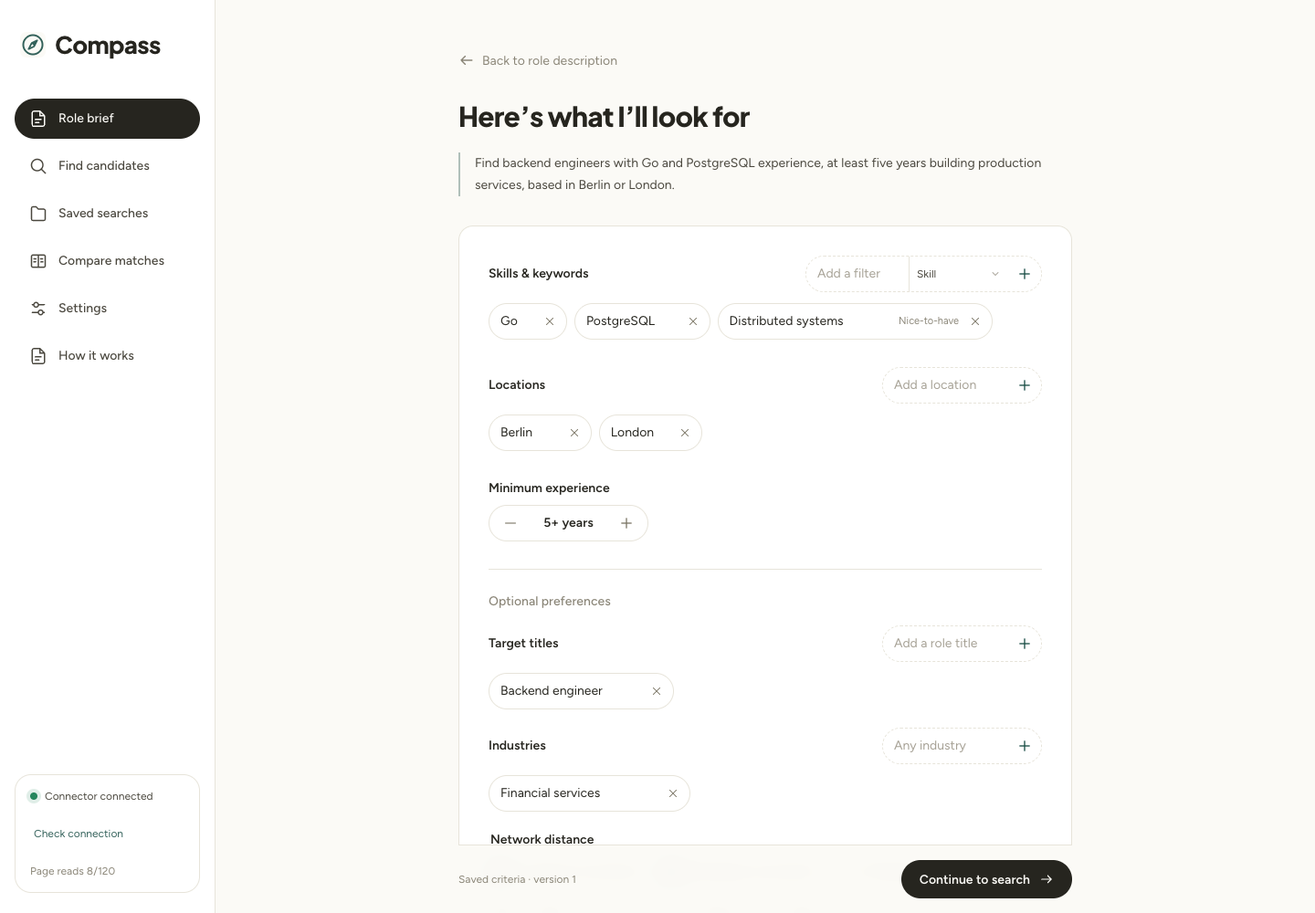
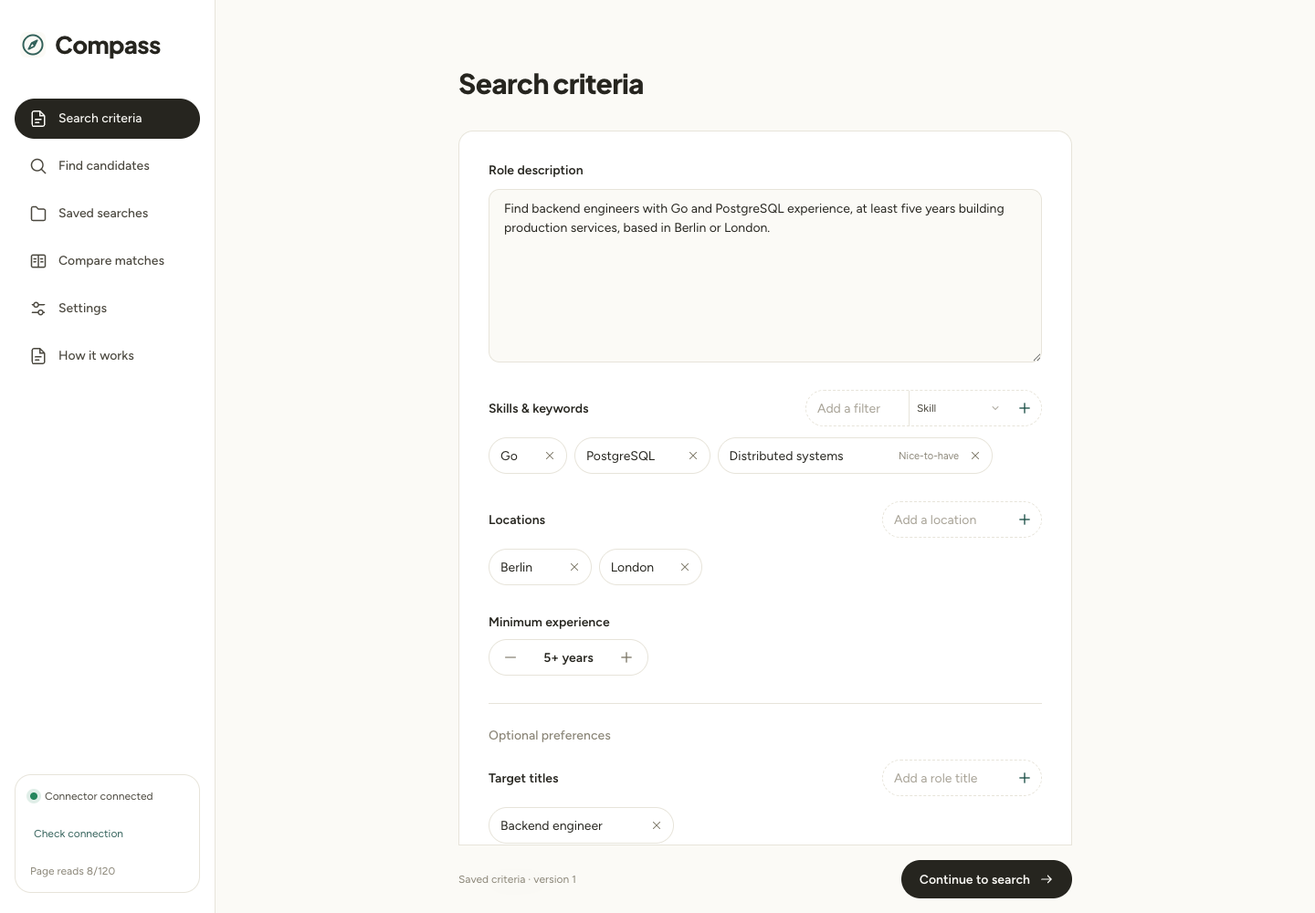
Simplify search criteria setup and refresh documentation screenshots

diff --git a/frontend/src/learn/basics1.tsx b/frontend/src/learn/basics1.tsx
@@ -7,7 +7,7 @@ import { FICTION } from './content';
 
 const STAGES = [
   {
-    label: 'Define the role', where: 'Role brief',
+    label: 'Define the role', where: 'Search criteria',
     detail: 'Start with a description, then enter the criteria yourself. Add skills, credentials and nice-to-haves, choose one or more locations, and set minimum experience in years. Target titles, industries, network and company preferences stay in the optional section.',
     outcome: 'Continue to search saves the brief. Every search uses those saved criteria.',
   },
@@ -39,10 +39,10 @@ export function Ch1() {
       chapterId="what-compass-does"
       kicker="The basics · 1 of 9"
       title="What Compass does"
-      intro="Start Compass with ./compass from the repository folder. The app and first-time LinkedIn sign-in window open for you. Finish signing in, then create your role brief and choose Run search. Compass is your local candidate research workspace. Describe a role, search LinkedIn, automatically download profiles, and compare the evidence against your criteria. You choose what matters and inspect the sources behind the results."
+      intro="Start Compass with ./compass from the repository folder. The app and first-time LinkedIn sign-in window open for you. Finish signing in, then create your search criteria and choose Run search. Compass is your local candidate research workspace. Describe a role, search LinkedIn, automatically download profiles, and compare the evidence against your criteria. You choose what matters and inspect the sources behind the results."
     >
       <section>
-        <h2 className="font-display text-lg font-bold text-ink">From role brief to your decision</h2>
+        <h2 className="font-display text-lg font-bold text-ink">From search criteria to your decision</h2>
         <p className="mt-2 text-sm leading-relaxed text-faint">Follow the work from top to bottom. Each stage explains what you do, what Compass does, and what you can review next.</p>
         <div className="mt-5">
           <Figure caption="New searches and profile requests use the separate LinkedIn connector. Saved evidence, local scoring and comparison remain available while the connector is offline.">
@@ -106,7 +106,7 @@ function ChipInput({ values, onChange, placeholder }: { values: string[]; onChan
 }
 
 export function Ch2() {
-  const [step, setStep] = useState<'describe' | 'criteria'>('describe');
+  const [description, setDescription] = useState(`${FICTION.role.charAt(0).toUpperCase() + FICTION.role.slice(1)}, ideally with payments experience. Berlin or remote in Europe.`);
   const [required, setRequired] = useState<string[]>(['Go', 'PostgreSQL']);
   const [optional, setOptional] = useState<string[]>(['Kubernetes']);
   const [include, setInclude] = useState<string[]>(['payments']);
@@ -125,31 +125,18 @@ export function Ch2() {
       chapterId="set-up-role"
       kicker="The basics · 2 of 9"
       title="Set up your role"
-      intro="Start by describing the role in plain words, then select “Set up search” to enter the criteria screen. You complete the structured criteria yourself — Compass never reads your description and fills the form in for you. Save the brief before searching: searches always use the latest saved version."
+      intro="The Search criteria page keeps your description and search criteria on one page. Enter the description, add the criteria you want to check, then select “Continue to search”. The description does not automatically fill in the criteria. Searches use your latest saved brief."
     >
-      <Figure caption="The description screen hands off to the criteria form — you confirm or correct every field. This example starts with manually entered criteria. Skills and nice-to-haves appear together; locations support multiple entries. Target titles and industries are in Optional preferences. Existing aliases are retained in saved data but are not edited on this screen. Try adding “payments” to Exclusions to see the conflict check.">
-        {step === 'describe' ? (
-          <div className="fade-enter">
-            <p className="text-xs font-semibold uppercase tracking-wide text-faint">Step 1 · Describe the role</p>
-            <div className="mt-3 rounded-xl border border-line bg-canvas p-4">
-              <p className="text-sm leading-relaxed text-body">“{FICTION.role.charAt(0).toUpperCase() + FICTION.role.slice(1)}, ideally with payments experience. Berlin or remote in Europe.”</p>
-              <p className="mt-2 text-xs text-faint">A description is a starting note — not instructions Compass acts on by itself.</p>
-            </div>
-            <div className="mt-4 flex justify-end">
-              <button
-                onClick={() => setStep('criteria')}
-                className="inline-flex items-center gap-2 rounded-full bg-ink px-5 py-2.5 text-sm font-semibold text-canvas hover:bg-accent-strong"
-              >
-                Set up search
-              </button>
-            </div>
-          </div>
-        ) : (
-          <div className="fade-enter space-y-5">
+      <Figure caption="Edit the description and criteria together, then save once. This example starts with manually entered criteria. Skills and nice-to-haves appear together; locations support multiple entries. Target titles and industries are in Optional preferences. Existing aliases are retained in saved data but are not edited on this screen. Try adding “payments” to Exclusions to see the conflict check.">
+        <div className="fade-enter space-y-5">
             <div className="flex items-center justify-between">
-              <p className="text-xs font-semibold uppercase tracking-wide text-faint">Step 2 · You complete the criteria</p>
+              <p className="text-sm font-semibold text-ink">Search criteria</p>
               <FictionalTag />
             </div>
+            <label className="block text-sm font-semibold text-ink">
+              Role description
+              <textarea className="mt-2 w-full rounded-xl border border-line bg-canvas p-3 font-normal" rows={8} value={description} onChange={event => { setDescription(event.target.value); setSaved(false); }} />
+            </label>
             <div>
               <p className="text-sm font-semibold text-ink">Skills & keywords</p>
               <div className="mt-2"><ChipInput values={required} onChange={(v) => { setRequired(v); setSaved(false); }} placeholder="Add required skill" /></div>
@@ -194,14 +181,13 @@ export function Ch2() {
               <p className="text-xs text-faint">Credentials are added in Skills & keywords using the filter type.</p>
               <button
                 onClick={() => setSaved(true)}
-                disabled={conflicts.length > 0}
+                disabled={conflicts.length > 0 || !description.trim()}
                 className="inline-flex shrink-0 items-center gap-2 rounded-full bg-ink px-5 py-2.5 text-sm font-semibold text-canvas hover:bg-accent-strong disabled:cursor-not-allowed disabled:opacity-40"
               >
                 Continue to search
               </button>
             </div>
           </div>
-        )}
       </Figure>
 
       <Callout tone="warn">

diff --git a/frontend/src/pages/BriefPage.tsx b/frontend/src/pages/BriefPage.tsx
@@ -109,7 +109,6 @@ export function BriefPage({
   const [negative, setNegative] = useState(initial.negative_keywords.join('\n'))
   const tone = initial.message_tone
   const [dirty, setDirty] = useState(false)
-  const [step, setStep] = useState<'describe' | 'review'>(current ? 'review' : 'describe')
   const positiveSet = new Set(parseKeywords(positive).map((term) => term.normalize('NFKC').toLowerCase()))
   const conflicts = parseKeywords(negative).filter((term) => positiveSet.has(term.normalize('NFKC').toLowerCase()))
 
@@ -154,40 +153,27 @@ export function BriefPage({
   const experienceLabel = requiredExperienceMonths === null ? 'Any'
     : `${Number((requiredExperienceMonths / 12).toFixed(2))}+ years`
 
-  if (step === 'describe') return (
-    <section className="compass-start" aria-labelledby="brief-title">
-      <p className="compass-kicker">Candidate Compass</p>
-      <h1 id="brief-title">Who are you looking for?</h1>
-      <p className="compass-start-copy">Start with the role you have in mind. You’ll review everything before searching.</p>
-      <form className="prompt-composer" onSubmit={event => { event.preventDefault(); if (description.trim()) { setStep('review'); requestAnimationFrame(() => document.getElementById('brief-title')?.focus()) } }}>
-        <label className="sr-only" htmlFor="job-description">Job description</label>
-        <textarea id="job-description" placeholder="e.g. A backend engineer with payments experience, Go and PostgreSQL, based in Berlin…" required rows={5} value={description} onChange={event => { setDescription(event.target.value); markDirty() }} />
-        <div className="prompt-composer-footer"><span>Nothing searched yet — confirm your criteria first.</span><button className="primary-action" disabled={!description.trim()} type="submit">Set up search <CompassIcon name="arrow" size={16} /></button></div>
-      </form>
-      <p className="prompt-guidance">A role title, key skills, and location are a good place to start.</p>
-      {current ? <button type="button" className="compass-back" onClick={() => setStep('review')}>Return to your criteria <CompassIcon name="arrow" size={16} /></button> : null}
-    </section>
-  )
-
   return (
     <section aria-labelledby="brief-title" className="compass-setup">
-      <button className="compass-back" type="button" onClick={() => setStep('describe')}><CompassIcon name="back" size={18} /> Back to role description</button>
       <header className="compass-setup-heading">
-        <h1 id="brief-title" tabIndex={-1}>Here’s what I’ll look for</h1>
-        <blockquote>{description}</blockquote>
+        <h1 id="brief-title" tabIndex={-1}>Search criteria</h1>
       </header>
       {settingsError ? <p className="form-error" role="alert">{settingsError}</p> : null}
       {mutation.isError ? <div className="form-error" ref={alertRef} role="alert" tabIndex={-1}><strong>Brief was not saved.</strong><span>{mutation.error.message}</span></div> : null}
       {conflicts.length > 0 ? <div className="form-error" role="alert"><strong>Some keywords appear in both lists.</strong><span>Remove {conflicts.map(term => `“${term}”`).join(', ')} from either Positive keywords or Exclusions before saving.</span></div> : null}
       <form className="compass-criteria-form" onChange={markDirty} onSubmit={event => {
         event.preventDefault()
-        if (conflicts.length) return
+        if (conflicts.length || !description.trim()) return
         mutation.mutate({ session_id: session.id, job_description: description, required_skills: required, optional_skills: optional,
           required_experience_months: requiredExperienceMonths, target_titles: titles, location, industries, required_credentials: credentials,
           positive_keywords: parseKeywords(positive), negative_keywords: parseKeywords(negative), message_tone: tone })
       }}>
         <div className="criteria-sheet">
-          {!current ? <p className="criteria-hint">Add the criteria from your description that you want to check against profiles.</p> : null}
+          <label className="field" data-field-prefix="job_description">
+            <span>Role description</span>
+            <textarea id="job-description" required rows={8} placeholder="Describe the role you’re hiring for…" value={description} onChange={event => { setDescription(event.target.value); markDirty() }} />
+            {fieldErrors.job_description?.map(error => <span className="field-error" key={error} role="alert">{error}</span>)}
+          </label>
           <KeyFilters skills={required} credentials={credentials} optionalSkills={optional} optionalSkillErrors={fieldErrors.optional_skills} onOptionalSkillsChange={editTerms(setOptional)} skillErrors={fieldErrors.required_skills} credentialErrors={fieldErrors.required_credentials} onSkillsChange={editTerms(setRequired)} onCredentialsChange={editTerms(setCredentials)} />
           <TermEditor errors={fieldErrors.location} field="location" label="Locations" placeholder="Add a location" values={splitLocations(location).map(term => ({ term, aliases: [] }))} onChange={values => { setLocation(values.map(value => value.term).join('; ')); markDirty() }} />
           <div data-field-prefix="required_experience_months">
@@ -210,8 +196,8 @@ export function BriefPage({
           </section>
         </div>
         <div className="criteria-footer">
-          <span aria-live="polite">{mutation.isSuccess && !dirty ? `Version ${mutation.data.version} saved. No search was started.` : dirty ? 'Unsaved changes' : current ? `Saved criteria · version ${current.version}` : 'Next: confirm your LinkedIn search'}</span>
-          <button className="primary-action" disabled={mutation.isPending || conflicts.length > 0} type="submit">{mutation.isPending ? 'Saving…' : onSaved ? 'Continue to search' : current ? 'Save new version' : 'Save brief'}<CompassIcon name="arrow" size={16} /></button>
+          <span aria-live="polite">{mutation.isSuccess && !dirty ? `Version ${mutation.data.version} saved. No search was started.` : dirty ? 'Unsaved changes' : current ? `Saved criteria · version ${current.version}` : 'Save your criteria to continue'}</span>
+          <button className="primary-action" disabled={mutation.isPending || conflicts.length > 0 || !description.trim()} type="submit">{mutation.isPending ? 'Saving…' : onSaved ? 'Continue to search' : current ? 'Save new version' : 'Save brief'}<CompassIcon name="arrow" size={16} /></button>
         </div>
       </form>
     </section>

diff --git a/frontend/src/pages/SearchPage.tsx b/frontend/src/pages/SearchPage.tsx
@@ -208,10 +208,10 @@ export function SearchPage({
       </div>)}
       {stopDiscovery.isSuccess ? <p className="field-help">Discovery stopped. Profiles already queued will finish downloading.</p> : null}
       {stopDiscovery.isError ? <p role="alert" className="form-error">{stopDiscovery.error.message}</p> : null}
-      {hasConflicts ? <div className="form-error brief-conflict" role="alert"><strong>Your role brief has conflicting keywords.</strong><span>A keyword is both included and excluded. Correct the brief before searching.</span>{onEditBrief ? <button className="quiet-action" onClick={onEditBrief} type="button">Edit role brief</button> : null}</div> : null}
+      {hasConflicts ? <div className="form-error brief-conflict" role="alert"><strong>Your search criteria have conflicting keywords.</strong><span>A keyword is both included and excluded. Correct the criteria before searching.</span>{onEditBrief ? <button className="quiet-action" onClick={onEditBrief} type="button">Edit search criteria</button> : null}</div> : null}
 
       {!brief ? (
-        <div className="empty-card" role="status"><h2>Save a role brief first.</h2><p>Set up your search criteria on the Role brief page.</p>{onEditBrief ? <button className="quiet-action" type="button" onClick={onEditBrief}>Set up role brief</button> : null}</div>
+        <div className="empty-card" role="status"><h2>Save your search criteria first.</h2><p>Set up your search criteria on the Search criteria page.</p>{onEditBrief ? <button className="quiet-action" type="button" onClick={onEditBrief}>Set up search criteria</button> : null}</div>
       ) : !keywords ? <p className="field-help">Add a role title or key filter to your brief before searching.</p> : null}
       {search.isError ? <div className="form-error" ref={errorRef} role="alert" tabIndex={-1}><strong>Search was not queued.</strong><span>{search.error.message}</span></div> : null}
       {!retrievalReady ? <p className="field-help download-help">Downloads are paused or offline. Check the connector and resume paused downloads above. Saved candidates remain available.</p> : null}

diff --git a/frontend/src/App.tsx b/frontend/src/App.tsx
@@ -140,7 +140,7 @@ function App() {
   useEffect(() => {
     document.title =
       view === 'settings' ? 'Settings · Compass' : view === 'learn' ? 'How it works · Compass' : view === 'brief'
-        ? 'Role brief · Compass'
+        ? 'Search criteria · Compass'
         : view === 'candidate'
           ? 'Candidate detail · Compass'
           : view === 'ranked'
@@ -187,7 +187,7 @@ function App() {
           onClick={() => navigate({ view: 'brief', candidateId: null })}
           type="button"
         >
-          <span className="nav-icon" aria-hidden="true"><CompassIcon name="brief" /></span><span className="nav-label">Role brief</span>
+          <span className="nav-icon" aria-hidden="true"><CompassIcon name="brief" /></span><span className="nav-label">Search criteria</span>
         </button>
         <button
           aria-current={contentView === 'search' ? 'page' : undefined}
@@ -273,7 +273,7 @@ function App() {
           </section>
         ) : session.data ? (
           contentView === 'brief' ? (
-            brief.isPending ? <p role="status">Loading your role brief…</p> : brief.isError ? <div className="form-error" role="alert">Your role brief could not be loaded. <button className="quiet-action" onClick={() => void brief.refetch()} type="button">Try again</button></div> : <BriefPage
+            brief.isPending ? <p role="status">Loading your search criteria…</p> : brief.isError ? <div className="form-error" role="alert">Your search criteria could not be loaded. <button className="quiet-action" onClick={() => void brief.refetch()} type="button">Try again</button></div> : <BriefPage
               retrievalReady={retrievalReady}
               queueRevision={queue.revision}
               current={brief.data}

diff --git a/frontend/src/components/LauncherStatus.tsx b/frontend/src/components/LauncherStatus.tsx
@@ -20,7 +20,7 @@ export function LauncherStatus({ phase }: { phase: string }) {
   return <div className="connection-strip" role="status">
     <div>
       <strong>{failed ? 'LinkedIn needs your attention' : phase === 'signing_in' ? 'Sign in to LinkedIn' : 'Connecting to LinkedIn…'}</strong>
-      <span>{failed ? 'Sign-in did not finish or the connection stopped. Try again; startup details are in .compass/connector.log.' : phase === 'signing_in' ? 'Finish signing in in the LinkedIn window that opens. You can set up your role brief while you wait.' : 'Compass is starting the connection for you.'}</span>
+      <span>{failed ? 'Sign-in did not finish or the connection stopped. Try again; startup details are in .compass/connector.log.' : phase === 'signing_in' ? 'Finish signing in in the LinkedIn window that opens. You can set up your search criteria while you wait.' : 'Compass is starting the connection for you.'}</span>
       {login.isError && <span role="alert">{login.error.message}</span>}
     </div>
     {failed && <button type="button" className="quiet-action" disabled={login.isPending} onClick={() => login.mutate()}>{login.isPending ? 'Opening…' : 'Sign in to LinkedIn'}</button>}

diff --git a/frontend/src/components/ResultHeader.tsx b/frontend/src/components/ResultHeader.tsx
@@ -18,7 +18,7 @@ export function ResultHeader({ brief, titleId, fallback, subtitle, onEdit, compa
     ...(brief.required_experience_months == null ? [] : [`${Number((brief.required_experience_months / 12).toFixed(2))}+ years`]),
     ...splitLocations(brief.location), ...(brief.industries ?? []).map(item => item.term), ...(brief.required_credentials ?? []).map(item => item.term)] : []
   return <header className={`results-header${compact ? ' results-header-compact' : ''}`}>
-    {onEdit && !compact ? <button type="button" className="compass-back" onClick={onEdit}><CompassIcon name="back" size={16} /> Role brief</button> : null}
+    {onEdit && !compact ? <button type="button" className="compass-back" onClick={onEdit}><CompassIcon name="back" size={16} /> Search criteria</button> : null}
     <div className="results-title-row">
       <div className="results-title"><h1 id={titleId} title={title}>{title}</h1><p>{subtitle}</p></div>
       <div className="results-header-actions">

diff --git a/frontend/src/learn/tours.tsx b/frontend/src/learn/tours.tsx
@@ -179,7 +179,7 @@ const COMPARE_GUIDANCE = [
   'Check evidence depth: a matching term means text was found — read the passage to judge its context and relevance.',
   'Consider information completeness: more downloaded sections support more conclusions. Read confidence and missing sections alongside the score.',
   'Inspect meaningful differences: open the profiles and source passages when a criterion could change your assessment.',
-  'Review your priorities: if the ranking feels wrong for the role, inspect Role brief and the scoring weights in Settings — saving changes triggers local rescoring.',
+  'Review your priorities: if the ranking feels wrong for the role, inspect Search criteria and the scoring weights in Settings — saving changes triggers local rescoring.',
   'Identify what remains unresolved: separate supported observations from questions that need more information or a conversation.',
 ];
 

diff --git a/frontend/src/learn/basics2.tsx b/frontend/src/learn/basics2.tsx
@@ -226,7 +226,7 @@ export function Ch5() {
 
       <section>
         <h2 className="font-display text-lg font-bold text-ink">Control downloads in Settings</h2>
-        <p className="mt-3 text-sm leading-relaxed text-body">Settings separates how Compass retrieves profiles from who you want to find. Keep skills, locations, company and network filters in Role brief.</p>
+        <p className="mt-3 text-sm leading-relaxed text-body">Settings separates how Compass retrieves profiles from who you want to find. Keep skills, locations, company and network filters in Search criteria.</p>
         <dl className="mt-4 divide-y divide-line rounded-2xl border border-line bg-surface px-5">
           {[
             ['Downloads', 'Turn automatic profile downloads on or off, choose one or two profiles at a time, and set the pause between reads.'],

diff --git a/frontend/src/components/ComparisonBoard.tsx b/frontend/src/components/ComparisonBoard.tsx
@@ -48,7 +48,7 @@ export function ComparisonBoard({ candidates, onRemove, onOpen }: {
         })}</tr>)}</tbody>
       </table>
     </div>
-    {!rows.size ? <p role="status">{profiles.some(profile => profile.isPending) ? 'Loading profile evidence…' : 'No comparable claims available. Download profiles and add criteria to your role brief.'}</p> : null}
+    {!rows.size ? <p role="status">{profiles.some(profile => profile.isPending) ? 'Loading profile evidence…' : 'No comparable claims available. Download profiles and add criteria to your search criteria.'}</p> : null}
     <p className="comparison-note">Matches use exact text and configured aliases. “No exact match” does not mean unqualified. Saved profile evidence does not independently verify a credential or its current validity.</p>
   </section>
 }

diff --git a/frontend/e2e/m4.spec.ts b/frontend/e2e/m4.spec.ts
@@ -560,8 +560,7 @@ test('brief preserves experience and credential aliases through create and edit'
   })
 
   await page.goto('/brief')
-  await page.getByLabel('Job description').fill('Platform engineer')
-  await page.getByRole('button', { name: 'Set up search', exact: true }).click()
+  await page.getByLabel('Role description').fill('Platform engineer')
   const increase = page.getByRole('button', { name: 'Increase minimum experience by one year' })
   await increase.click()
   await page.getByLabel('Filter type').selectOption('credential')

diff --git a/README.md b/README.md
@@ -13,7 +13,7 @@ Download or clone this repository, open its folder in a terminal, and run:
 ```
 
 Compass installs what it needs, opens the app, and opens a LinkedIn sign-in window
-on first use. Sign in, create your role brief, then choose **Run search**.
+on first use. Sign in, complete **Search criteria**, then choose **Run search**.
 Later launches reuse your installation and login.
 
 **Requirements:** macOS or desktop Linux, Git, curl, and internet access for setup.
@@ -26,11 +26,12 @@ minutes. Keep the terminal open; **Ctrl+C** stops Compass without deleting saved
 
 *Screenshots use fictional candidates in the working app.*
 
-## From role brief to comparison
+## From search criteria to comparison
 
-1. **Define the role.** Enter skills, credentials, locations, and minimum
-   experience. Add optional preferences where useful. The role description is
-   not automatically converted into criteria.
+1. **Set your search criteria.** Edit the role description, skills, credentials,
+   locations, and minimum experience on one page. Add optional preferences where
+   useful, then choose **Continue to search**. The description is not automatically
+   converted into criteria.
 2. **Find candidates.** Run a search. New profiles download and receive scores
    automatically with the default settings; existing downloads are reused.
 3. **Review the list.** Check names and duplicate sources, add a review note,
@@ -53,7 +54,7 @@ walks through the same workflow with interactive examples.
 - **Speed:** one or two profiles download at a time, depending on Settings and
   connector support. A larger batch does not increase simultaneous downloads.
 - **Reach:** choose first-degree, second-degree, or third-degree and beyond in
-  Role brief. Leave all unchecked to search across networks. Connection distance
+  Search criteria. Leave all unchecked to search across networks. Connection distance
   does not affect scores.
 - **Profile visits:** retrieval opens LinkedIn pages in your signed-in session.
   Hidden browser tabs do not make visits anonymous.
@@ -67,11 +68,11 @@ walks through the same workflow with interactive examples.
 ## Screenshots
 
 <details>
-<summary>Role brief, ranked results, candidate review, and settings</summary>
+<summary>Search criteria, ranked results, candidate review, and settings</summary>
 
-### Role brief
+### Search criteria
 
-![Role brief with skills, multiple locations, and minimum experience](docs/screenshots/role-brief.png)
+![Search criteria with an editable role description, skills, locations, and minimum experience](docs/screenshots/role-brief.png)
 
 ### Ranked results
 

diff --git a/docs/settings.md b/docs/settings.md
@@ -1,7 +1,7 @@
 # Settings
 
 Settings stores operational preferences in the local database. Role criteria,
-locations, titles, industries, company, and network filters stay in **Role brief**.
+locations, titles, industries, company, and network filters stay in **Search criteria**.
 Settings appears immediately before **How it works** in the sidebar.
 
 ## Downloads and search batches
@@ -42,7 +42,7 @@ cooldowns. Saving Settings neither starts the connector nor resumes a paused que
 
 The **Scoring weights** sheet has its own **Save scoring weights** action. It
 recalculates saved evidence locally without another LinkedIn read. Changes to the
-role brief also trigger local rescoring. Source-check selections for superseded
+search criteria also trigger local rescoring. Source-check selections for superseded
 scores are cleared.
 
 Inputs cover required skills, optional skills, experience, titles, industries,
